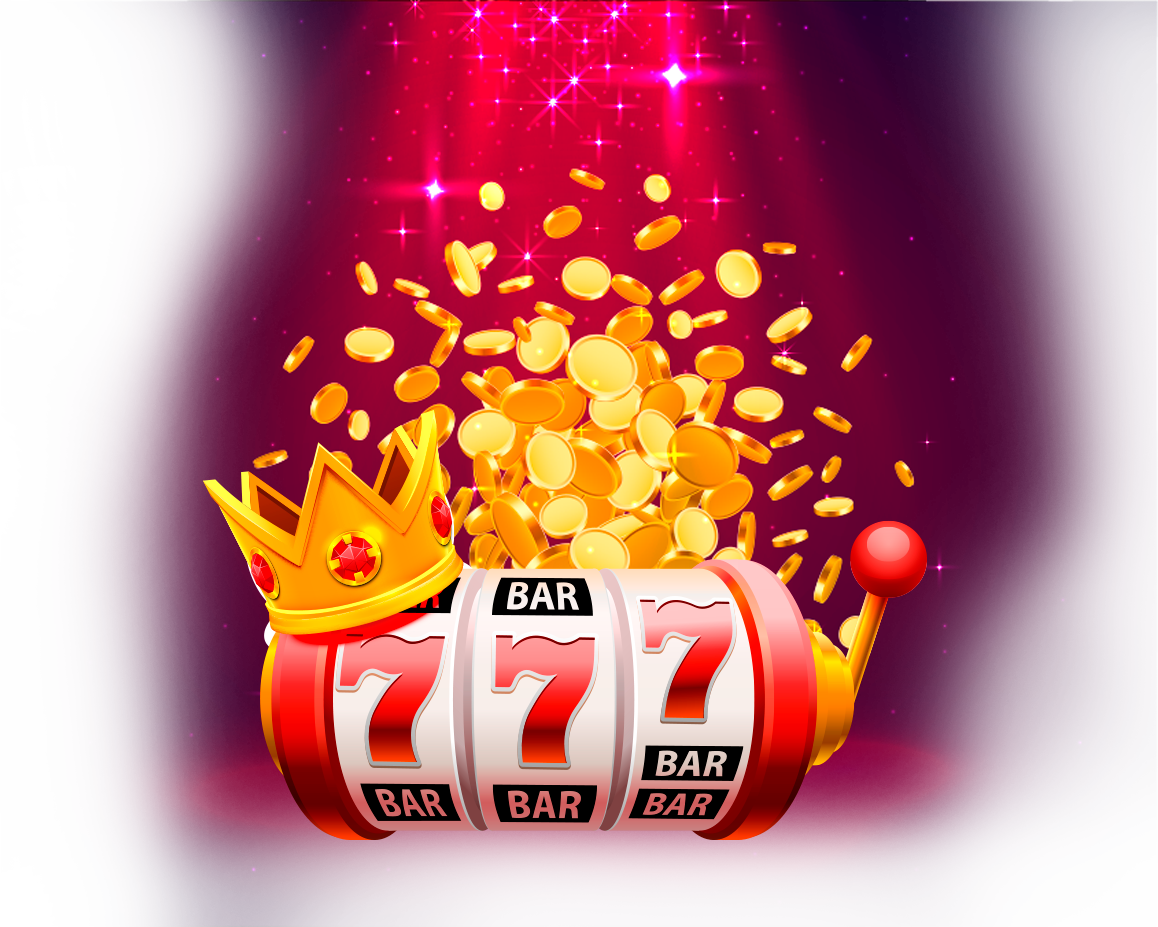
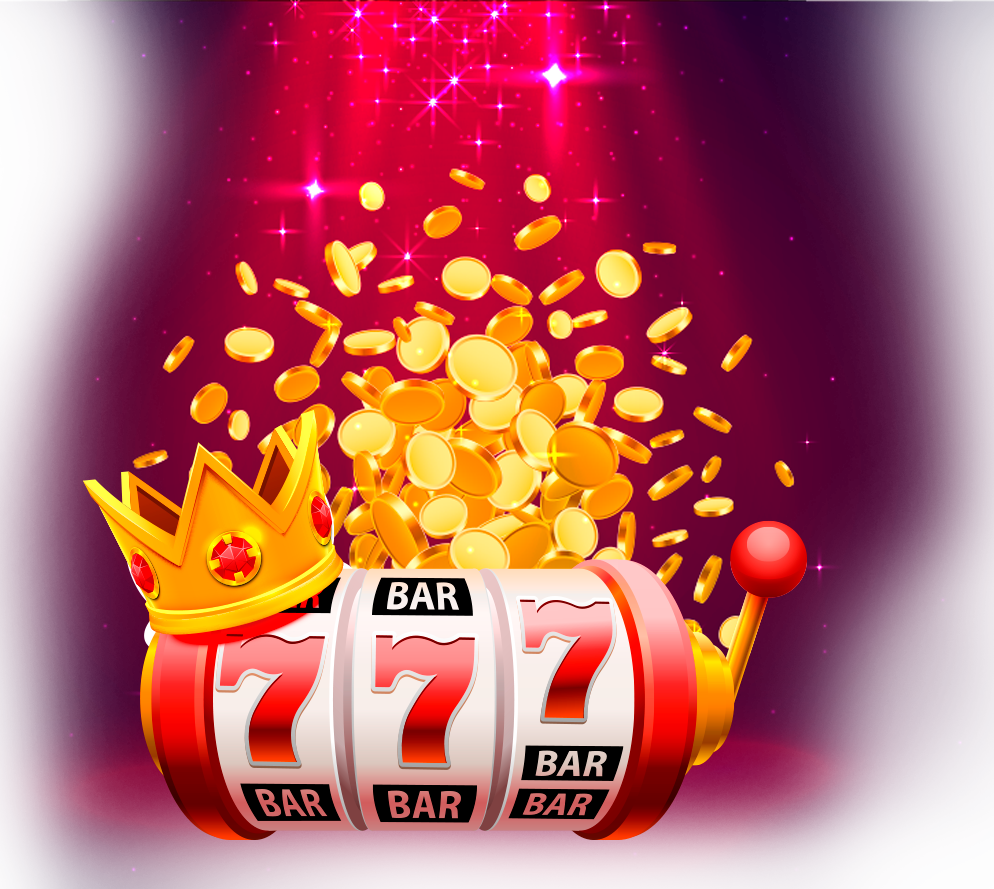
fix out content

diff --git a/Casino_landing/src/style/_index.scss b/Casino_landing/src/style/_index.scss
@@ -34,30 +34,36 @@ button {
     &::after {
         content: "";
         position: absolute;
-        width: 100%;
-        height: 100%;
-        top: -80px;
-        right: -350px;
+        width: 1000px;
+        height: 920px;
+        top: -30px;
+        right: 0;
         background-image: url('../images/money.png');
         background-repeat: no-repeat;
         background-position: center;
         z-index: 2;
     }
 
-    @include breakpoint(1100) {
+    @include breakpoint(1460) {
         &::after { 
-            background-position: left;
+            background-image: url('../images/money-media-700.png');
+            width: 700px;
         }
     }
 
-    @include breakpoint(800) {
+    @include breakpoint(1130) {
+        &::after { 
+            background-image: url('../images/money-media-400.png');
+            width: 400px;
+        }
+    }
+
+    @include breakpoint(900) {
+        &::after { 
+           display: none;
+        }
+
         justify-content: center;
-    }
-
-    @include breakpoint(600) {
-        &::after {
-            display: none;
-        }
     }
 }
 
